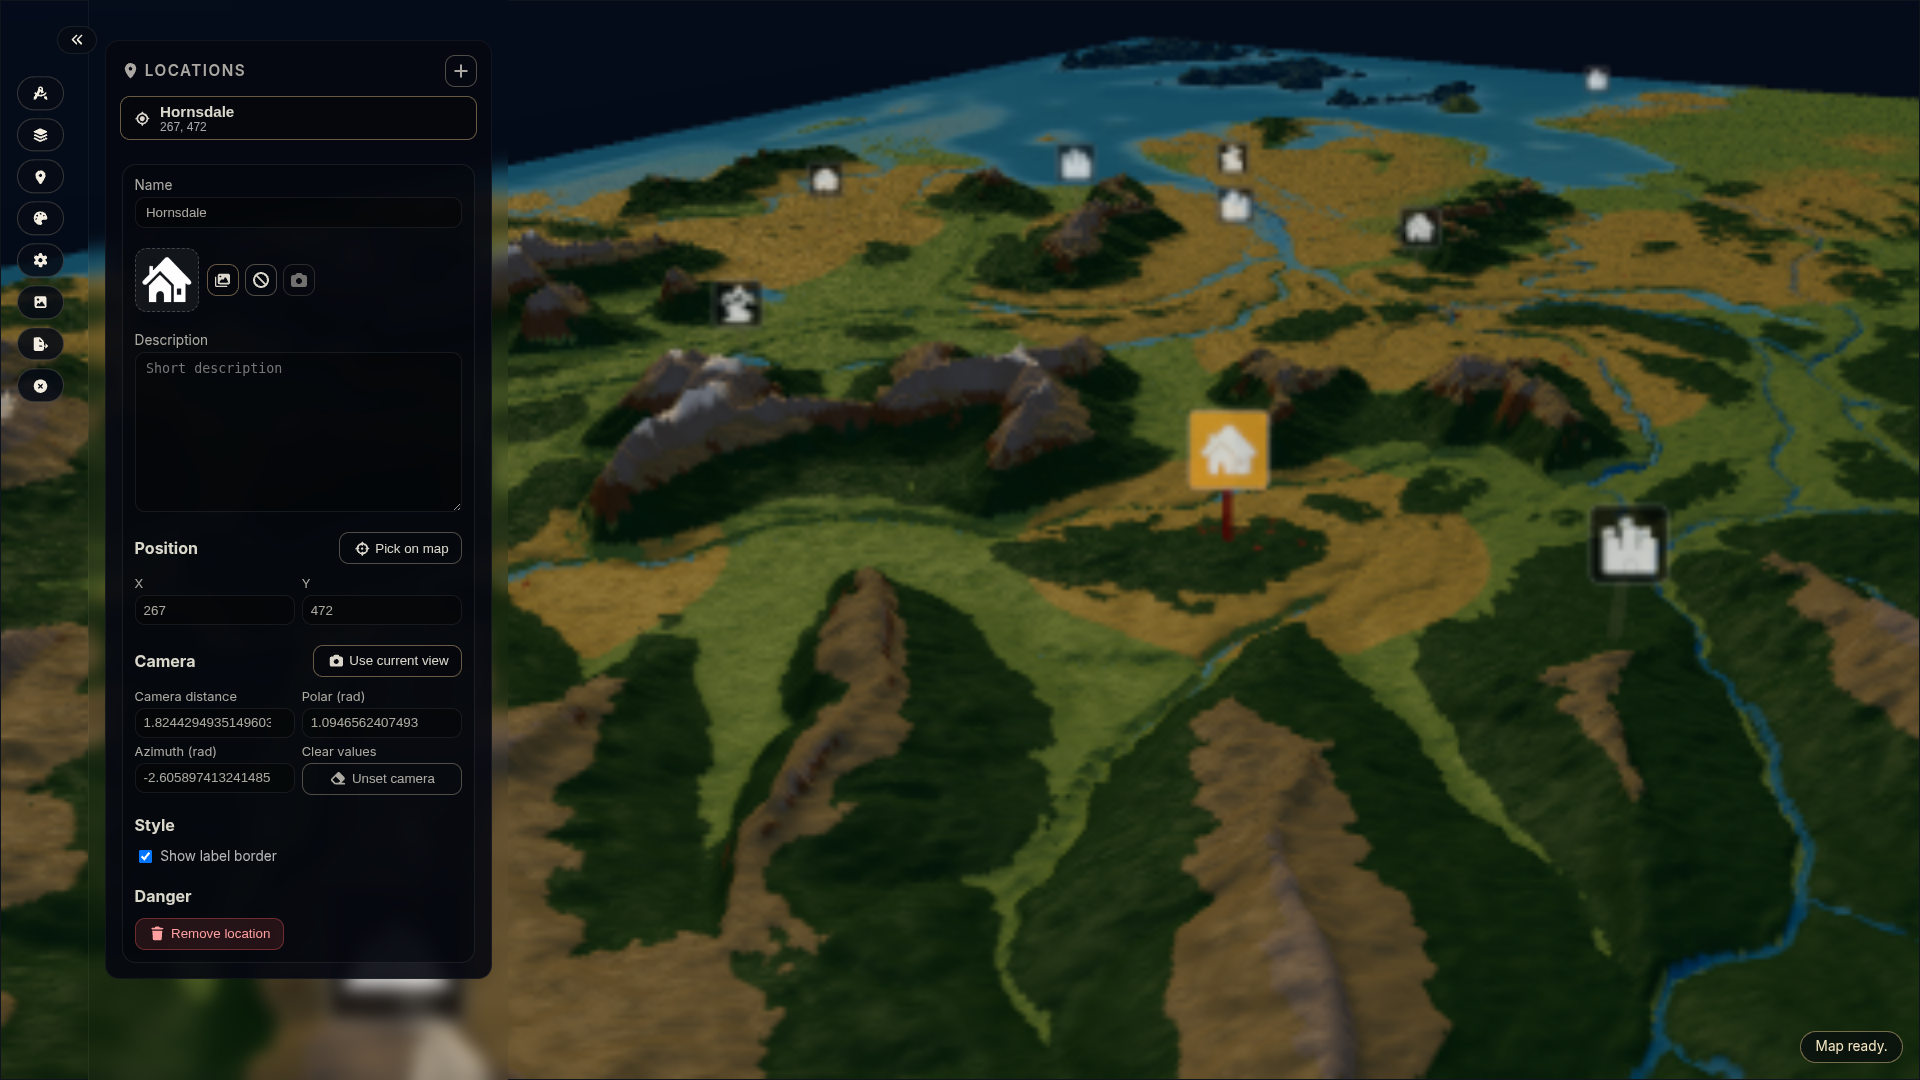
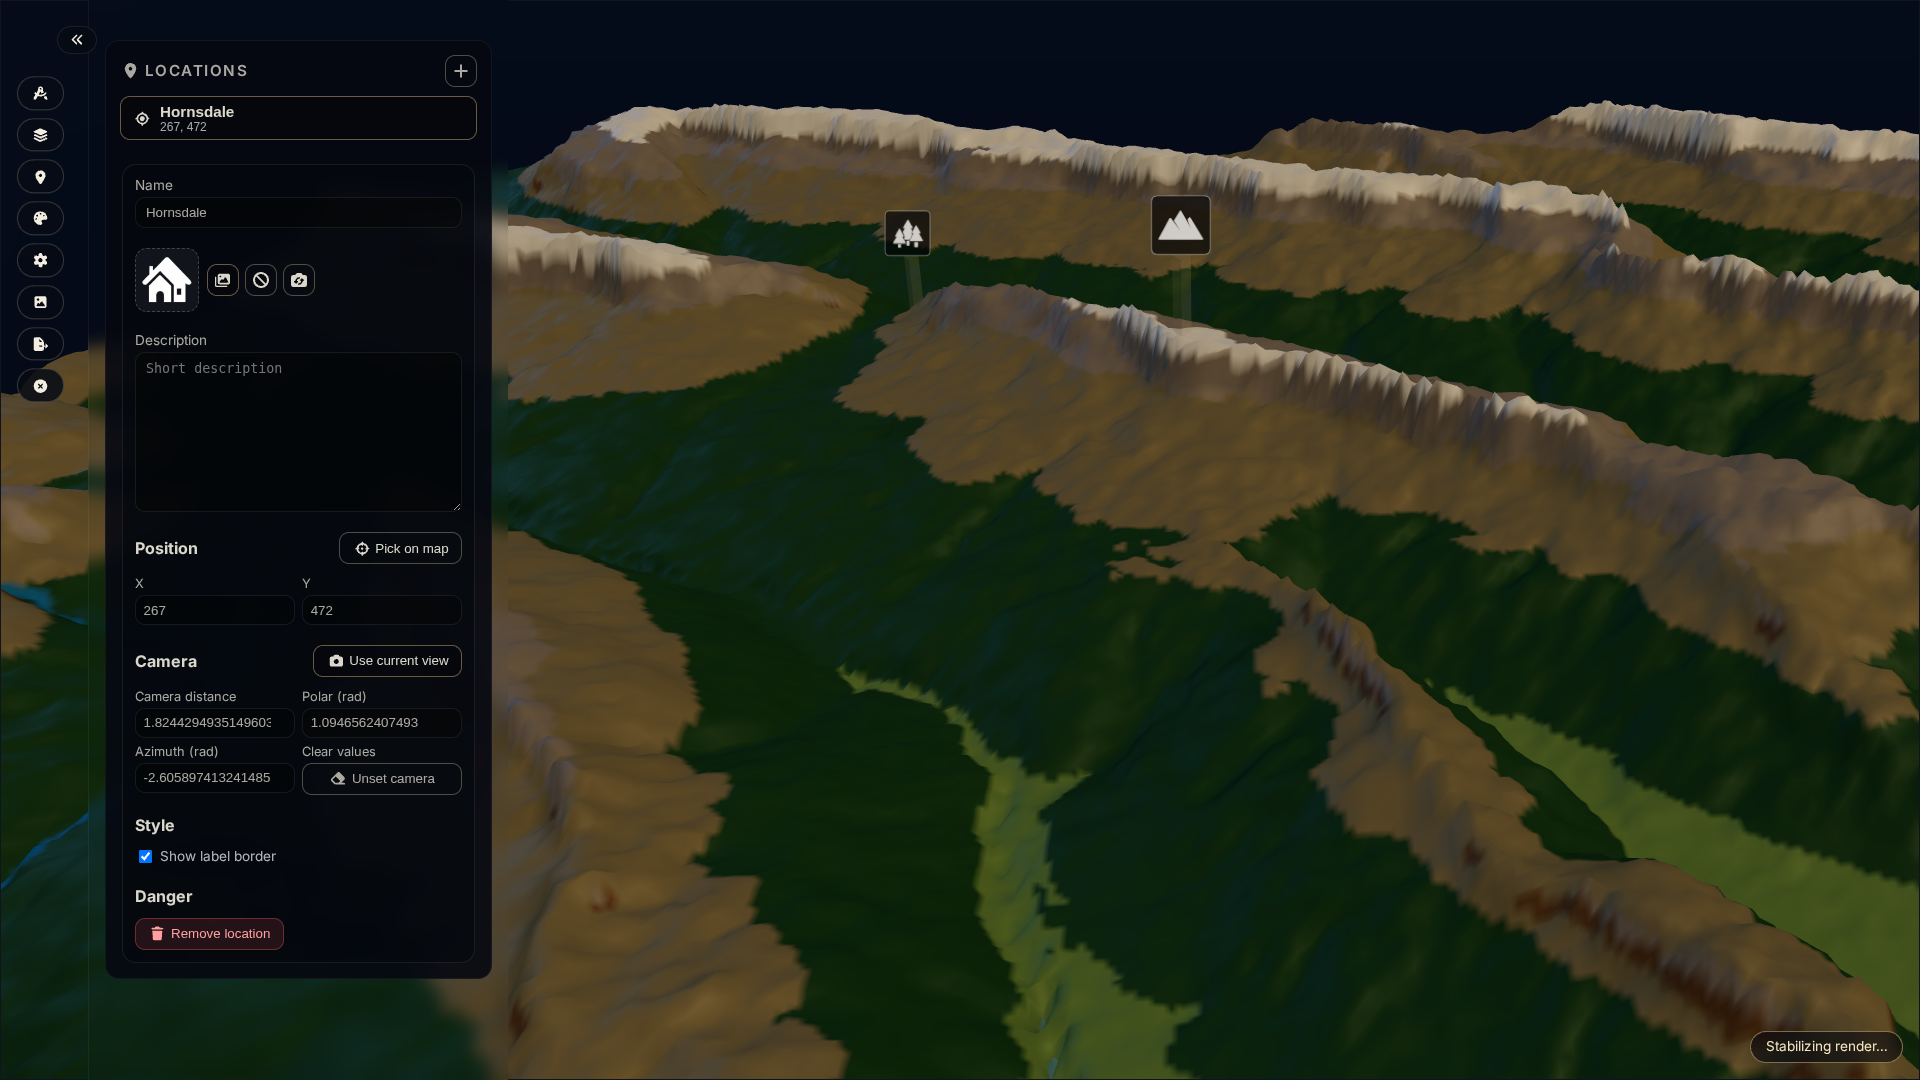
Add support for renderScale URL param; update tests and screenshots

diff --git a/tests/editor-user-guide.spec.ts b/tests/editor-user-guide.spec.ts
@@ -15,7 +15,7 @@ function addDebugParam(url: string): string {
 function editorUrl(params: string, location?: string): string {
   const trimmed = params ? (params.startsWith('&') ? params : `&${params}`) : ''
   const locationParam = location ? `&location=${encodeURIComponent(location)}` : ''
-  return `/editor/?map=wynnal-terrain.wyn${trimmed}${locationParam}`
+  return `/editor/?map=wynnal-terrain.wyn&renderScale=max${trimmed}${locationParam}`
 }
 
 /**
@@ -61,6 +61,13 @@ async function openLayerEditorForLayer(page: Page, label: string) {
   await expect(titleInput).toBeVisible()
   const currentValue = (await titleInput.inputValue()).trim()
   expect(currentValue.toLowerCase()).toBe(label.toLowerCase())
+
+  const dock = page.locator('.panel-dock').first()
+  await expect(dock).not.toHaveClass(/panel-dock--collapsed/)
+  await page.waitForFunction(() => {
+    const el = document.querySelector('.panel-dock') as HTMLElement | null
+    return Boolean(el && el.offsetWidth >= 320)
+  })
   return editor
 }
 
@@ -123,7 +130,7 @@ test.describe('Terrain Editor : Navigation', () => {
       localStorage.clear()
       sessionStorage.clear()
     })
-    await page.goto(addDebugParam('/editor/'))
+    await page.goto(addDebugParam('/editor/?renderScale=max'))
 
     const sampleSelect = page.getByRole('combobox', { name: /sample map/i })
     await expect(sampleSelect).toBeVisible()

diff --git a/editor/src/App.vue b/editor/src/App.vue
@@ -1519,6 +1519,15 @@ onMounted(() => {
   const params = new URLSearchParams(window.location.search)
   const autoload = params.get('autoload')
   const mapParam = params.get('map')
+  const renderScaleParam = params.get('renderScale')
+
+  if (renderScaleParam) {
+    const normalized = renderScaleParam.toLowerCase()
+    const allowed = ['auto', 'very-low', 'low', 'medium', 'high', 'max'] as const
+    if (allowed.includes(normalized as (typeof allowed)[number])) {
+      localSettings.renderScaleMode = normalized as (typeof allowed)[number]
+    }
+  }
 
   if (mapParam) {
     void loadSampleArchive(getPublicMapUrl(mapParam), mapParam)

diff --git a/tests/editor-user-guide-animated-features.spec.ts b/tests/editor-user-guide-animated-features.spec.ts
@@ -22,7 +22,9 @@ test.describe('Terrain Editor : User Guide Features', () => {
   test('looping location demo capture', async ({ page }, testInfo) => {
     test.setTimeout(1_800_000)
 
-    await page.goto(addDebugParam('/editor/?map=wynnal-terrain.wyn&panel=locations&location=castle'))
+    await page.goto(
+      addDebugParam('/editor/?map=wynnal-terrain.wyn&renderScale=max&panel=locations&location=castle')
+    )
     await expect(
       page.getByRole('heading', { name: `Terrain Editor ${getShortVersion()}` })
     ).toBeVisible()

diff --git a/tests/assets-panel.spec.ts b/tests/assets-panel.spec.ts
@@ -8,7 +8,7 @@ function addDebugParam(url: string): string {
 
 function editorUrl(params: string): string {
   const trimmed = params ? (params.startsWith('&') ? params : `&${params}`) : ''
-  return `/editor/?autoload=sample${trimmed}`
+  return `/editor/?map=wynnal-terrain.wyn&renderScale=max${trimmed}`
 }
 
 async function waitForMapReady(page: Page) {
